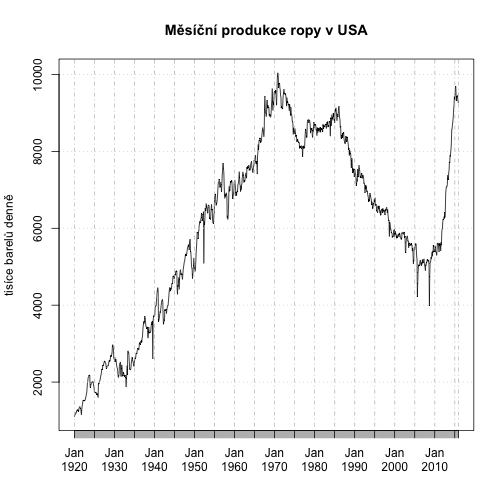
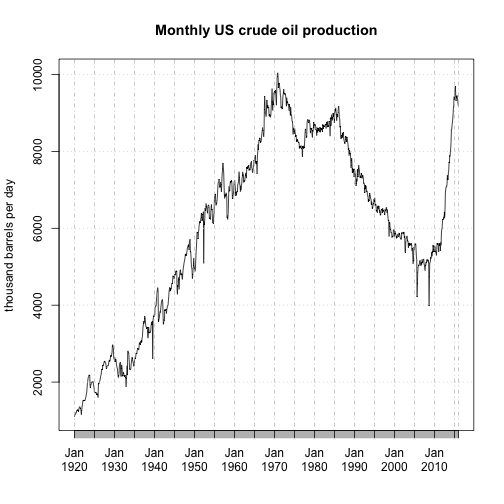
EN version

diff --git a/_posts/2016-03-27-EIA-data.md b/_posts/2016-03-27-EIA-data.md
@@ -1,69 +1,76 @@
 ---
 layout: post
-title: Jak na data od EIA
+title: How to - EIA data
 author: Petr Baca
 published: true
 status: publish
 draft: false
 tags: R
 ---
-##### Jak na data od EIA
-V posledních letech roste množství dat dostupných prostřednictvím webových služeb. Jednou z organizací, která v posledních letech takto "vystavila" svá data, je americká [Energetická informační administrativa](http://www.eia.gov) (EIA). EIA je vlastně jakousi statistickou jednotkou přidruženou k ministerstvu energetiky USA. Jejím úkolem však není jen sběr dat. EIA mimo jiné vytváří prognózy, přičemž zejména ta krátkodobá ([STEO](http://www.eia.gov/forecasts/steo/report/)) bývá bedlivě sledována. Proto, aby mohla EIA vykonávat své úkoly, tak udržuje velmi bohatou databázi dat (nejen) z energetiky. A právě tuto databázi se EIA nedávno rozhodla zpřístupnit prostřednictvím API.
+##### How to: EIA data
  
-##### API od EIA? Skvělé!
+Amount of data available via web services has been soaring in the recent years. One of the organisations that decided to make its data publicly available via web is the [Energy Information Administration](http://www.eia.gov) (EIA). The EIA is in fact something as a statistical arm of the US Department of Energy and its task is, among other things, to created widely and closely followed analyses such as the Short Term Energy Outlook([STEO](http://www.eia.gov/forecasts/steo/report/)). For that reason, the EIA also collects huge amount of energy-related data. And this data is now available via the API.
  
-[API](http://en.wikipedia.org/wiki/Application_programming_interface), neboli rozhraní pro programování aplikací, se EIA rozhodně povedlo. Jde sice stále jen o beta-verzi, která trpí některými dětskými bolestmi (například jistou nekonzistencí kódů jednotlivých časových řad), ale i přes mladý věk poskytuje velmi užitečné a detailní informace. Po registraci a přidělení unikátního uživatelského klíče totiž umožňuje stahovat [XML](https://en.wikipedia.org/wiki/XML) soubory s energetickými daty přímo ze serveru s využitím [REST](http://en.wikipedia.org/wiki/Representational_state_transfer)ových služeb.
+##### API by EIA? Great!
  
-Co to všechno znamená a jak to vlastně funguje? RESTové služby vlasně umožňují poslat do EIA databázový dotaz ve formě "webové adresy" (v podstatě stejně, jako když do prohlížeče napíšeme www.seznam.cz) a jako odpověď se vrátí data uložená v XML souboru. Zbývá už jen zvolit nástroj, pomocí kterého data stáhneme. Jelikož stažení dat je pouhým začátkem a zpravidla následuje jejich analýza, tak v našem případě zvolíme [R](http://www.r-project.org/) (jako ostatně pro vše na tomto blogu).
+[API](http://en.wikipedia.org/wiki/Application_programming_interface), or Application Programming Interface maintained by the EIA is great! Although it still is "just" a beta-version and as such suffers from some childhood diseases (for example, there are some inconsistencies in naming simillar time series), it is very useful source of information. After a (free) registration, the user can reques a unique user key to be able to download [XML](https://en.wikipedia.org/wiki/XML) files directly from the web via [REST](http://en.wikipedia.org/wiki/Representational_state_transfer)ful services.
  
-##### EIA + R = <3
+What does it mean and how does it work? From user's viewpoint, RESTful services are in fact quite simple. All one needs to do is to send a 'database query' in a form of a particular 'web address'. That is, it reminds simply writing 'www.google.com' into web browsers window. As a response, the server returns an XML file that contains requested data.
  
-Prostředí R je vůbec skvělé pro analýzu dat. Mimo jiné právě i proto, že podporuje [webové služby](http://cran.r-project.org/web/views/WebTechnologies.html). A jak tedy na samotné stažení dat z databáze EIA?
+After getting the data, all the user needs to do is to extract the information he or she is looking for. To show an example, we will use [R](http://www.r-project.org/). The reason is simple. After getting the data the user usually wants to perform some sort of analysis and R is a great tool for such goal.
  
-K tomu budeme potřebovat některé externí knihovny ze seznamu výše. Jsou jimi zejména **RCurl** a **XML**. Pro následnou příjemnější práci s daty budeme potřebovat ještě knihovnu **xts**.
+##### EIA & R = <3
  
-Řekněme, že chceme stáhnout měsíční časovou řadu produkce ropy v USA. Po prohledání beta verze API EIA lze nalézt [tuto](http://www.eia.gov/opendata/qb.cfm?category=296686&sdid=PET.MCRFPUS2.M) stránku, která v podstatě obsahuje všechny podstatné informace. Samotné stažení dat a jejich zpracování obstará následující kód (na příslušné místo adresy musíte vložit vlastní API klíč).
+ 
+ 
+ 
+ 
+R certainly is one of the best tools for data analysis that is available. One of the reasons is that it supports [web technologies](http://cran.r-project.org/web/views/WebTechnologies.html). So, equipped with this kind of information, how should one proceed?
+ 
+First, We will have to download some external libraries from the list above. Namely, we need __RCurl__ and __XML__ libraries. To be able to work with time series data more efficiently we will also get __xts__ library.
+ 
+So, let's say we want to download monthly data on the US crude oil production. Anyone who has ever heard of "the shale revolution" would know that this kind of data has been attracting a lot of attention in the recent years.
+ 
+After a while one can easily find [this](http://www.eia.gov/opendata/qb.cfm?category=296686&sdid=PET.MCRFPUS2.M) webpage. It contains all the information we need to know, in particular the code of the series (__PET.MCRFPUS2.M__). If we have the code, we can retrieve and process the data using the following script (warning: you have to use your own API key to be able to use the script).
  
 
  
-Nejprve načteme zmiňované knihovny, které potřebujeme pro práci.
+First, we will activate the libraries.
  
 
 {% highlight r %}
-library("RCurl") # stazeni dat
-library("XML") # 'parsovani' dat
-library("xts") # zpracovani dat do podoby casove rady
+library("RCurl") # data retrieval
+library("XML") # XML parsing
+library("xts") # to be able to convert to a 'nice' time series object
 {% endhighlight %}
  
-A nyní již hurá do práce samotné...
+The following chunk shows how to actually get and process the data.
  
 
 {% highlight r %}
-# 'adresa' XML souboru
-# aby kód fungoval, tak je treba tento řádek odkomentovat a vlozit vlastní API klic
+# we will keep the URL (or URI) in variable URL
+# don't forget to get your own API key
  
 #URL <- "http://api.eia.gov/series/?api_key=YOUR_API_KEY_HERE&series_id=PET.MCRFPUS2.M&out=xml"
  
-# dale predpokladame, ze jsme tak ucinili a zpracujeme vysledky dotazu
- 
-# stahneme a "zpracujeme" XML
+# data download and processing
 XML <- getURL(URL, httpheader = list('User-Agent' = 'R-Agent'))
 tree <- xmlTreeParse(XML, useInternalNodes=TRUE)
   
-# vytahneme z XMLka prislusne hodnoty
+# get values of interest from the XML file
 date <- xpathSApply(tree,"//series/row/data/row/date", xmlValue)
 value <- xpathSApply(tree,"//series/row/data/row/value", function(x) as.numeric(xmlValue(x)))
  
-# data budou potrebovat jeste trochu prace
-# musime je dostat do takoveho formatu, aby R-ko pochopilo, ze jsou to skutecne datumy
+# OK, now let's convert the data to time series object
+# first, convert date so that R understands it really is date
 d <- as.Date(paste(substr(date, 1, 4),
                    substr(date, 5, 6),
                    "01", sep = "-"))
  
-# vysledek ulozime do promenne 'prod'
+# save the results to variable called 'prod'
 prod <- xts(value, d); colnames(prod) <- "US_oil_prod"
  
-# a zobrazime produkci za poslednich 12 mesicu
+# ...and show the data for the last 12 months (available)
 tail(prod, 12)
 {% endhighlight %}
 
@@ -71,7 +78,6 @@ tail(prod, 12)
 
 {% highlight text %}
 ##            US_oil_prod
-## 2015-01-01        9341
 ## 2015-02-01        9451
 ## 2015-03-01        9648
 ## 2015-04-01        9694
@@ -81,22 +87,23 @@ tail(prod, 12)
 ## 2015-08-01        9407
 ## 2015-09-01        9452
 ## 2015-10-01        9377
-## 2015-11-01        9305
-## 2015-12-01        9262
+## 2015-11-01        9328
+## 2015-12-01        9235
+## 2016-01-01        9179
 {% endhighlight %}
  
-A na konec můžeme přidat i graf:
+Now, we can easily plot the data we just downloaded...
  
 
 {% highlight r %}
-plot(prod, main = "Měsíční produkce ropy v USA", ylab = "tisíce barelů denně")
+plot(prod, main = "Monthly US crude oil production", ylab = "thousand barrels per day")
 {% endhighlight %}
 
 ![plot of chunk plot](/figures/plot-1.png)
  
-Možná si říkáte, k čemu je to všechno dobré, když se na graf konec konců můžeme podívat i na webu a data můžeme stáhnout i do Excelu.
+You may be thinking. Why should I do it? Why should I learn how to write an R script when I could simply download the same data in an excel file or see the plot on EIA website?
  
-Vězte, že důvodů je celá řada. Ten hlavní je, že takto vytvořený report je reprodukovatelný (za měsíc, až budou nová data, jej spustíme znovu, dojdeme si pro čaj (nebo se spíš jednou zatočíme na židli) a až se vrátíme, tak na nás čekají nové výsledky). Kód uvedený výše je sice jen "jednorázovka", ale fantazii se meze nekladou. Stahování a zpracování dat lze například snadno zabalit do vhodných funkcí, které by opakování těchto úkonů, například pro jinou časovou řadu, velmi usnadnily...
+Well, there are many reasons! The most important one probably is that the script above (or the report based on the script such as this blog post) is reproducible. That means that you can run exactly the same script next month, get a coffee (or rather take a look from the window for 5 seconds) and the new plot is done!
  
-A co se týče možností analýzy v Excelu a R, tak ty jsou v zásadě neporovnatelné:-). 
+Of course, you can do much more than just simple plot the data. One obvious extension of the script above for example is to wrap its key parts into a function that can download the data for any time series. And as far as the comparison of analytical tools available in R and in Excel is concerned, needles to say that the former goes far beyond what can you do in Excel spreadsheet...
  
